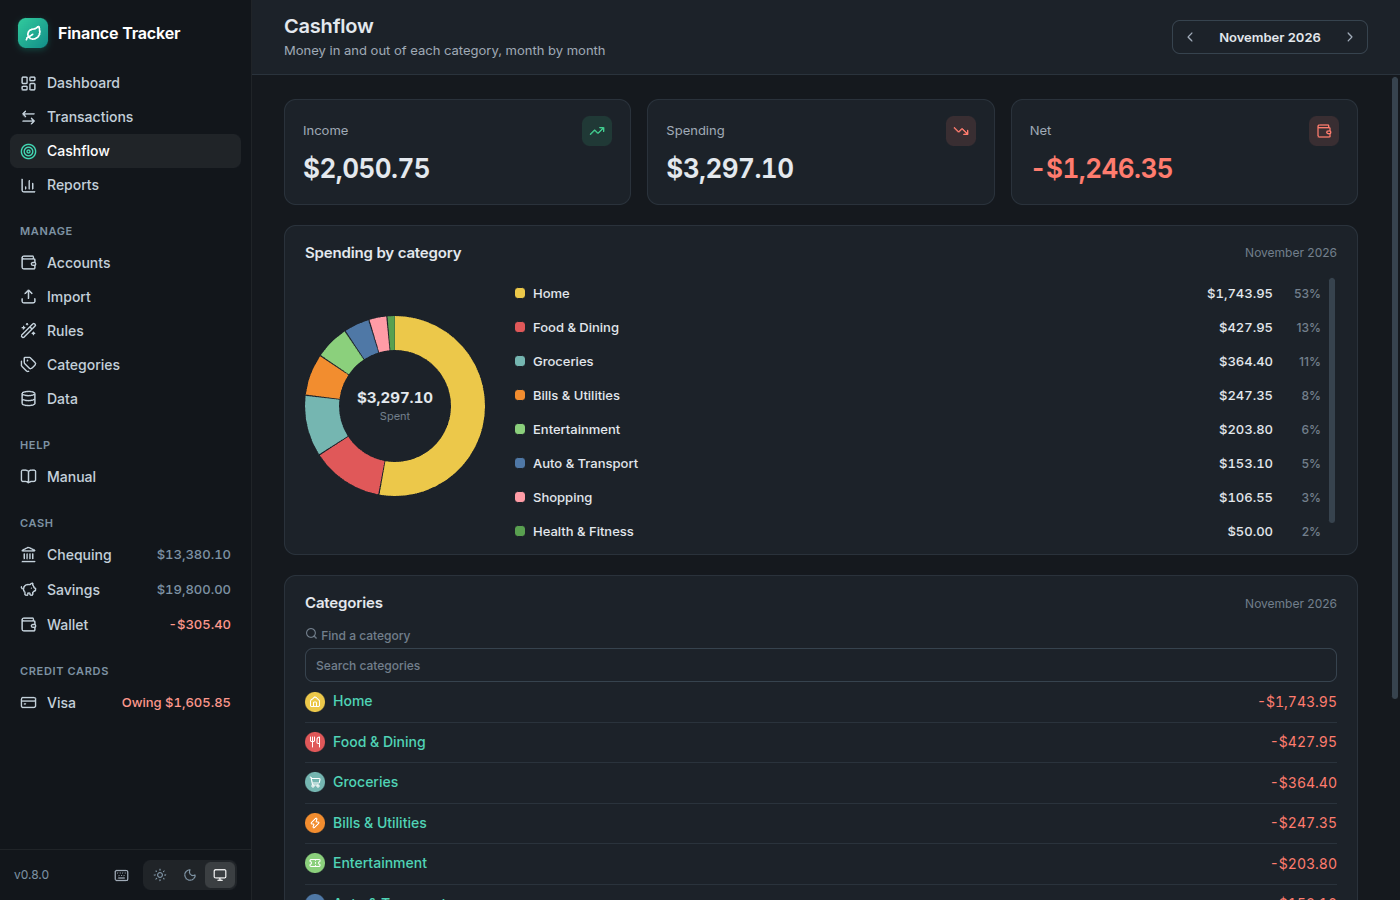
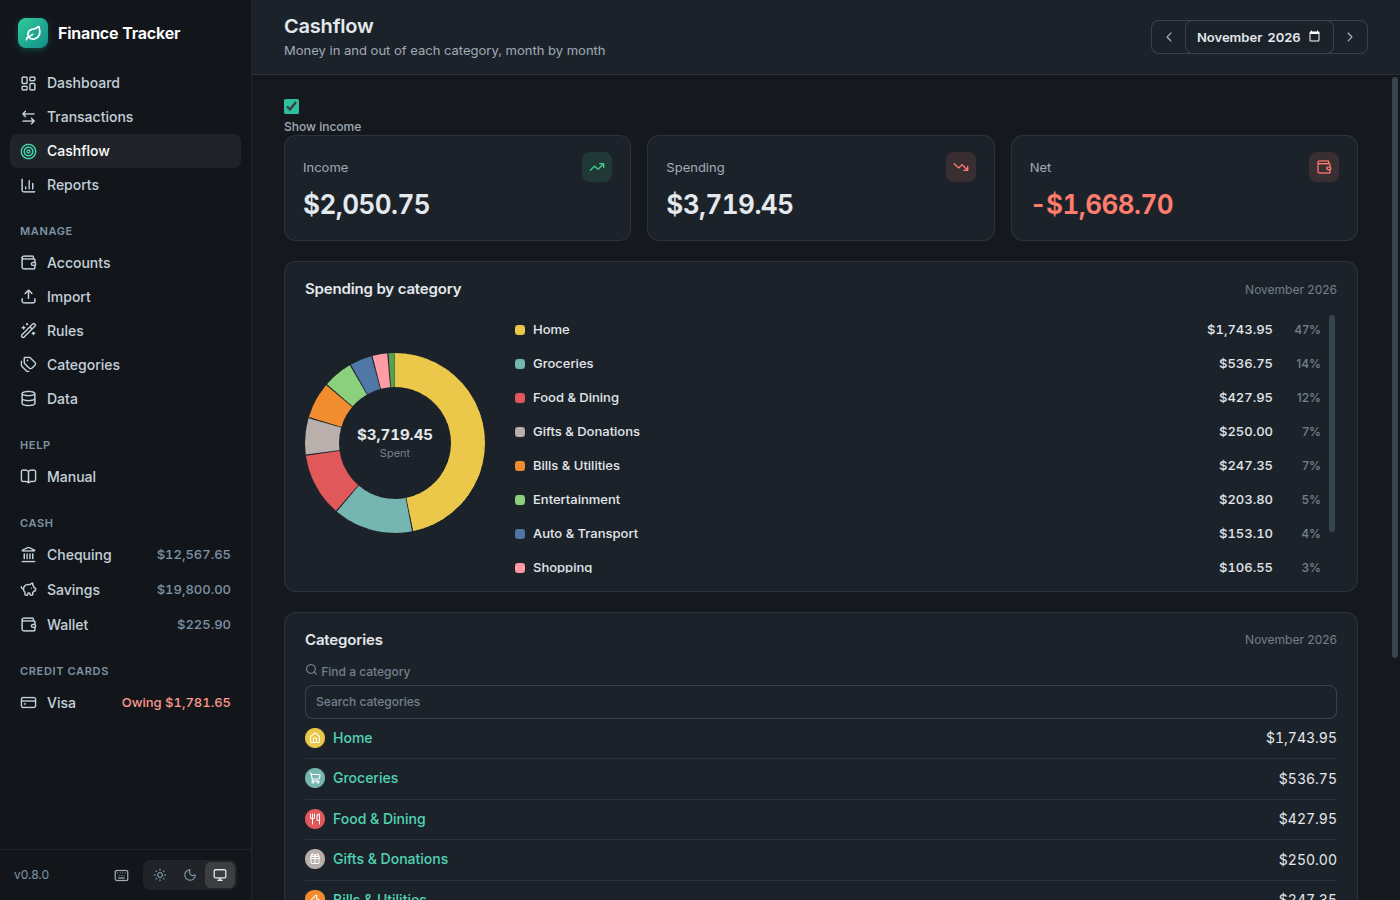
chore: release 0.9.0, regenerate screenshots, session handoff
Claude-Session: https://claude.ai/code/session_015k7HiBHaWsp4GicyWnbHGh

diff --git a/CLAUDE.md b/CLAUDE.md
@@ -16,7 +16,7 @@ See `docs/design/00_project_brief.md`.
 
 ## Project status
 
-Milestones 1 (skeleton) and 2 (ledger: schema, core queries, IPC, transaction list, transfers, splits) are built. Milestone 3 (import) is built: CSV, OFX/QFX and Mint CSV, mapping profiles, duplicate detection, undo, history, and bank presets for RBC, TD and Tangerine, verified against real export headers and date formats (see `docs/design/04_import.md`). Milestone 4 (rules) is built in core, IPC and a basic editor (see `docs/design/05_rules.md`). Milestone 5 (search) is built: filters, saved searches and bulk actions (see `docs/design/06_search.md`). Milestone 6 (reports and dashboard) is built: category, income vs expenses, trend, payee and biggest-transaction reports, a dashboard home screen and category drill-down (see `docs/design/07_reports.md`). Milestone 7 (data safety) is built: database export and restore, transactions CSV export and automatic backups (see `docs/design/08_data_safety.md`). OFX/QFX and Mint import were clicked through headless (`import-formats.mjs`). Milestone 8 (packaging) is built: unsigned installers via electron-builder and a tag-triggered release workflow (see `docs/design/09_packaging.md`, ADR 0004). v0.1.0 is released (Linux AppImage, Windows exe, macOS arm64 dmg on the GitHub release page). After the MVP review: a Categories tab (add, rename, delete with reassign), a customizable dashboard, and account edit, archive and delete from the sidebar. After the design review (`docs/design/11_review_feedback.md`): duplicate hardening, flat categories with merge, category colours and icons, and per-category search totals are built. Also built: a rule prompt when a category is changed in the list, the watched import folder, default linking of card payments at import, category aliases (migration 10) and the hide-from-budgets flag (migration 11). budgets v1 (monthly standing amount per category, see `docs/design/12_budgets.md`, migration 12) with a dashboard widget. Look and feel (`docs/design/13_look_and_feel.md`, ADR 0005) is built: design tokens, light and dark themes, sidebar shell, dialogs and a layout pass on every screen; no `window.alert`/`window.confirm` remain. An in-app Manual (`docs/design/14_manual.md`) is built; keep `manualContent.ts` in step with user-visible changes. Spreadsheet (.xlsx) import is built (ADR 0006). After the feedback batch (handoff 2026-11-14_feedback-batch): category kind dropped (ADR 0007), card payment linking, searchable category picker, notes, rule toast, import column guessing with preview, and Find duplicates. After the second feedback round (handoff 2026-11-14_session-accounts-and-duplicates): bulk duplicate cleanup with cross-account matching, an Accounts tab (design note 15), a navigation-only sidebar and an Account filter on Transactions. After the third feedback round (handoff 2026-11-14_session-feedback-round-3): dashboard drill-downs, import category guess and skip-on-import rules. After the follow-up (handoff 2026-11-14_session-review-queue-fuzzy-rules): import rule offer, fuzzy `similar` rule operator and a review queue for uncategorized rows. After persona testing (handoff 2026-11-14_session-usability-pass): decimal-comma fix, layout and narrow-window fixes, first-run guidance, explicit import account, predictable search, keyboard shortcuts, skip-aware import summary, similar-spelling history guess, and design notes 16 and 17. v0.5.0 is released (handoff 2026-11-14_session-release-0.5.0). After the fourth feedback round (handoff 2026-11-14_session-feedback-round-4): load all transactions, edit transaction, hidden-from-budgets leaves reports, net refunds and sorting on budgets, a spending donut, and Budgets renamed Cashflow. v0.6.0 is released. v0.7.0 adds set balance on a date and a Back button. v0.7.1 restores the account list to the sidebar. v0.8.0 removes budget targets (migration 15; design note 12 kept as history) and reworks Cashflow: signed categories, category search, drill-down from every row and a month that survives Back (handoff 2026-11-20_session-release-0.8.0). Next: build the first slices of design notes 16 and 17.
+Milestones 1 (skeleton) and 2 (ledger: schema, core queries, IPC, transaction list, transfers, splits) are built. Milestone 3 (import) is built: CSV, OFX/QFX and Mint CSV, mapping profiles, duplicate detection, undo, history, and bank presets for RBC, TD and Tangerine, verified against real export headers and date formats (see `docs/design/04_import.md`). Milestone 4 (rules) is built in core, IPC and a basic editor (see `docs/design/05_rules.md`). Milestone 5 (search) is built: filters, saved searches and bulk actions (see `docs/design/06_search.md`). Milestone 6 (reports and dashboard) is built: category, income vs expenses, trend, payee and biggest-transaction reports, a dashboard home screen and category drill-down (see `docs/design/07_reports.md`). Milestone 7 (data safety) is built: database export and restore, transactions CSV export and automatic backups (see `docs/design/08_data_safety.md`). OFX/QFX and Mint import were clicked through headless (`import-formats.mjs`). Milestone 8 (packaging) is built: unsigned installers via electron-builder and a tag-triggered release workflow (see `docs/design/09_packaging.md`, ADR 0004). v0.1.0 is released (Linux AppImage, Windows exe, macOS arm64 dmg on the GitHub release page). After the MVP review: a Categories tab (add, rename, delete with reassign), a customizable dashboard, and account edit, archive and delete from the sidebar. After the design review (`docs/design/11_review_feedback.md`): duplicate hardening, flat categories with merge, category colours and icons, and per-category search totals are built. Also built: a rule prompt when a category is changed in the list, the watched import folder, default linking of card payments at import, category aliases (migration 10) and the hide-from-budgets flag (migration 11). budgets v1 (monthly standing amount per category, see `docs/design/12_budgets.md`, migration 12) with a dashboard widget. Look and feel (`docs/design/13_look_and_feel.md`, ADR 0005) is built: design tokens, light and dark themes, sidebar shell, dialogs and a layout pass on every screen; no `window.alert`/`window.confirm` remain. An in-app Manual (`docs/design/14_manual.md`) is built; keep `manualContent.ts` in step with user-visible changes. Spreadsheet (.xlsx) import is built (ADR 0006). After the feedback batch (handoff 2026-11-14_feedback-batch): category kind dropped (ADR 0007), card payment linking, searchable category picker, notes, rule toast, import column guessing with preview, and Find duplicates. After the second feedback round (handoff 2026-11-14_session-accounts-and-duplicates): bulk duplicate cleanup with cross-account matching, an Accounts tab (design note 15), a navigation-only sidebar and an Account filter on Transactions. After the third feedback round (handoff 2026-11-14_session-feedback-round-3): dashboard drill-downs, import category guess and skip-on-import rules. After the follow-up (handoff 2026-11-14_session-review-queue-fuzzy-rules): import rule offer, fuzzy `similar` rule operator and a review queue for uncategorized rows. After persona testing (handoff 2026-11-14_session-usability-pass): decimal-comma fix, layout and narrow-window fixes, first-run guidance, explicit import account, predictable search, keyboard shortcuts, skip-aware import summary, similar-spelling history guess, and design notes 16 and 17. v0.5.0 is released (handoff 2026-11-14_session-release-0.5.0). After the fourth feedback round (handoff 2026-11-14_session-feedback-round-4): load all transactions, edit transaction, hidden-from-budgets leaves reports, net refunds and sorting on budgets, a spending donut, and Budgets renamed Cashflow. v0.6.0 is released. v0.7.0 adds set balance on a date and a Back button. v0.7.1 restores the account list to the sidebar. v0.8.0 removes budget targets (migration 15; design note 12 kept as history) and reworks Cashflow: signed categories, category search, drill-down from every row and a month that survives Back (handoff 2026-11-20_session-release-0.8.0). v0.9.0 adds hide-from-trends categories, positive spending and a month picker on Cashflow (handoff 2026-11-21_session-release-0.9.0). Next: build the first slices of design notes 16 and 17.
 
 ## Scope
 

diff --git a/docs/handoffs/2026-11-21_session-release-0.9.0.md b/docs/handoffs/2026-11-21_session-release-0.9.0.md
@@ -1,0 +1,38 @@
+# Session Handoff: 2026-11-21 (release 0.9.0)
+
+## Summary
+
+Acted on a fifth round of owner feedback on Cashflow and released 0.9.0. This file supersedes the
+release-0.8.0 handoff for next actions.
+
+## Completed
+
+- Cashflow shows spending as positive black amounts and income in green. The owner's comment said
+  "income green and negative"; read as a typo, so income is green and positive.
+- Per-category "hide from Cashflow and trends" (`categories.hide_from_trends`, migration 16,
+  `setCategoryHidden`). Applied in `getCashflowMonth` and the reports `base()` query, but not in the
+  biggest-transactions list, which still shows hidden items. Available on built-in categories too
+  (they stay non-renamable). Categories tab shows a "Hidden from trends" pill.
+- "Show income" checkbox on Cashflow (kept in localStorage); hides the Income and Net tiles and
+  income rows.
+- Month field (`input type=month`) on Cashflow to jump to any past month.
+- Manual, changelog and README screenshots updated; `cashflow.mjs` reads the month field.
+- PR #58, version 0.9.0.
+
+## Current state
+
+- Migrations: 16.
+- Hiding a category changes report totals, so Cashflow and Reports still agree on it, but the
+  transaction list and search are unaffected.
+
+## Next actions
+
+1. Owner tries the hide flag on real data (card payments, income). Never read real data.
+2. Build the first slices of design notes 16 (payee cleanup) and 17 (recurring payments).
+3. Housekeeping: bump `actions/upload-artifact`, pin the runner image, consider longer slow test
+   timeouts on the Intel macOS runner.
+4. Optionally rename `exclude_from_budgets` to match the "hide from reports" wording.
+
+## Risks or decisions needed
+
+- If the owner meant income to be displayed negative, flip the sign in `Cashflow.tsx`.

diff --git a/CHANGELOG.md b/CHANGELOG.md
@@ -5,6 +5,17 @@ All notable changes to this project are documented here. The format is based on
 
 ## [Unreleased]
 
+## [0.9.0] - 2026-11-21
+
+### Added
+
+- Hide a category from Cashflow and trends (migration 16), from its actions menu on the Categories tab. It works on built-in categories too, and is meant for things like credit card payments that are not linked as transfers.
+- A "Show income" checkbox on Cashflow, and a month field to jump to any month directly.
+
+### Changed
+
+- Cashflow shows spending as positive black amounts and income in green, instead of signed amounts.
+
 ## [0.8.0] - 2026-11-20
 
 ### Removed
